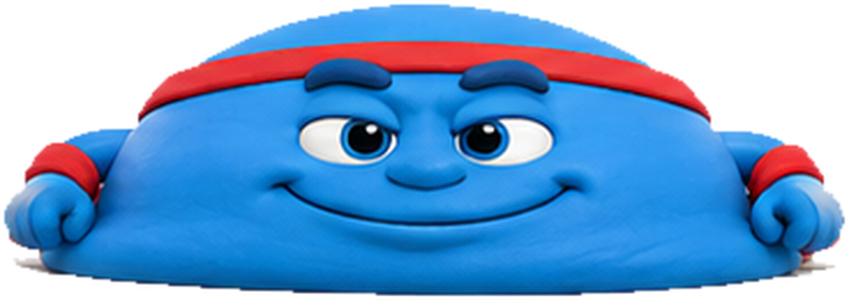
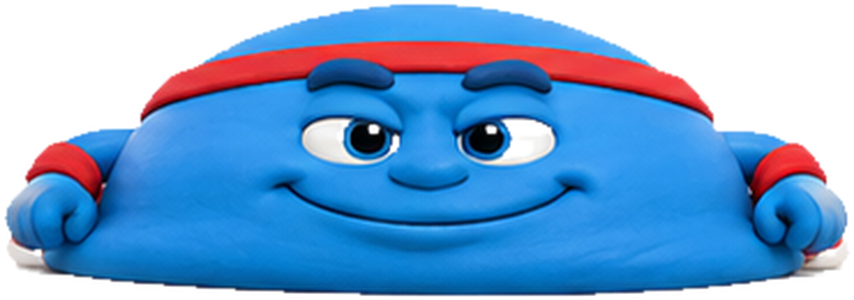
String Match fixes: whole cloud buddy, no halo, iPhone nav overlap
- Re-cut all buddies with a tighter white key so the white/gray CLOUD body isn't erased (was rendering half-built); also removed trapped white pockets between feet, kept eyes
- Removed white sticker outline (halo) — soft drop shadow only
- Status pill now sits below the nav row + respects safe-area-inset so it no longer overwrites Home/Sound on iPhone

diff --git a/public/string-match.html b/public/string-match.html
@@ -17,11 +17,11 @@
   #stage{ position:absolute; inset:0; }
   #board{ position:absolute; inset:0; touch-action:none; overflow:hidden; background:#bfe3f5; }
   svg{ display:block; width:100%; height:100%; }
-  .hud{ position:absolute; top:12px; right:12px; display:flex; flex-direction:column; gap:10px; z-index:30; }
+  .hud{ position:absolute; top:calc(env(safe-area-inset-top,0px) + 12px); right:12px; display:flex; flex-direction:column; gap:10px; z-index:30; }
   .hudBtn{ width:54px; height:54px; border:none; border-radius:16px; background:rgba(255,255,255,0.94);
     box-shadow:0 4px 0 rgba(70,100,140,0.32); color:#3a5170; display:flex; align-items:center; justify-content:center; cursor:pointer; }
   .hudBtn:active{ transform:translateY(3px); box-shadow:none; }
-  #status{ position:absolute; top:14px; left:0; right:0; text-align:center; z-index:20; pointer-events:none; padding:0 78px; box-sizing:border-box; }
+  #status{ position:absolute; top:calc(env(safe-area-inset-top,0px) + 76px); left:0; right:0; text-align:center; z-index:20; pointer-events:none; padding:0 16px; box-sizing:border-box; }
   #status span{ display:inline-block; background:rgba(255,255,255,0.92); color:#33506f;
     font-size:clamp(14px,3.6vw,20px); font-weight:700; padding:8px 18px; border-radius:999px;
     box-shadow:0 4px 14px rgba(30,60,90,0.16); }
@@ -39,16 +39,9 @@
   <div id="board">
     <svg id="svg" viewBox="0 0 1000 1000" preserveAspectRatio="xMidYMid meet">
       <defs>
-        <!-- white sticker outline + soft drop shadow so buddies pop off any background -->
-        <filter id="pop" x="-55%" y="-55%" width="210%" height="210%">
-          <feMorphology in="SourceAlpha" operator="dilate" radius="6" result="sw"/>
-          <feFlood flood-color="#FFFFFF" flood-opacity="0.96" result="wc"/>
-          <feComposite in="wc" in2="sw" operator="in" result="outline"/>
-          <feGaussianBlur in="sw" stdDeviation="6" result="shb"/>
-          <feOffset in="shb" dx="0" dy="7" result="sho"/>
-          <feFlood flood-color="#14283f" flood-opacity="0.36" result="shc"/>
-          <feComposite in="shc" in2="sho" operator="in" result="shadow"/>
-          <feMerge><feMergeNode in="shadow"/><feMergeNode in="outline"/><feMergeNode in="SourceGraphic"/></feMerge>
+        <!-- soft drop shadow so buddies pop off any background (no outline halo) -->
+        <filter id="pop" x="-40%" y="-40%" width="180%" height="180%">
+          <feDropShadow dx="0" dy="7" stdDeviation="7" flood-color="#0f2338" flood-opacity="0.42"/>
         </filter>
         <!-- gently calm the busy clay background -->
         <filter id="bgcalm"><feColorMatrix type="saturate" values="0.78"/></filter>
